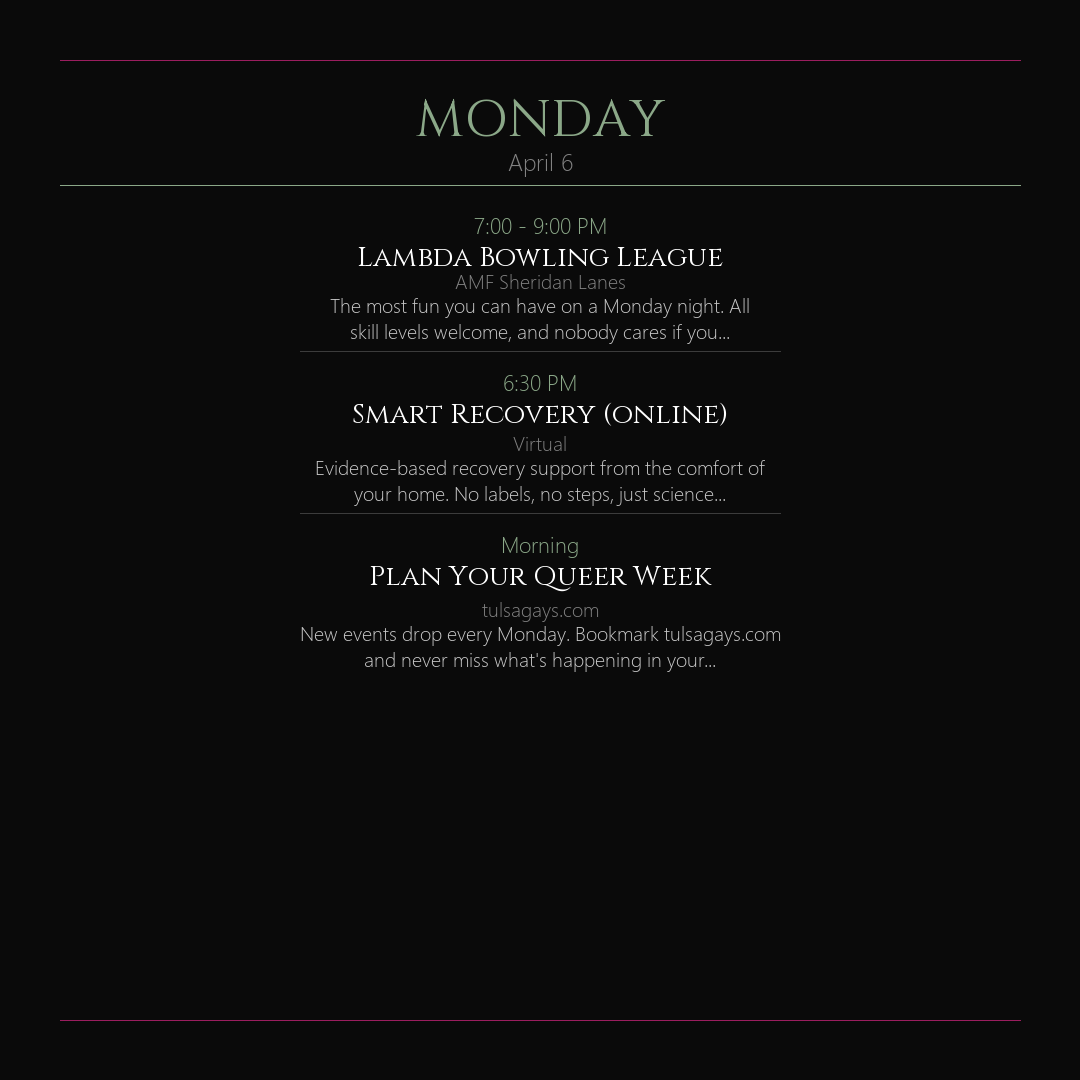
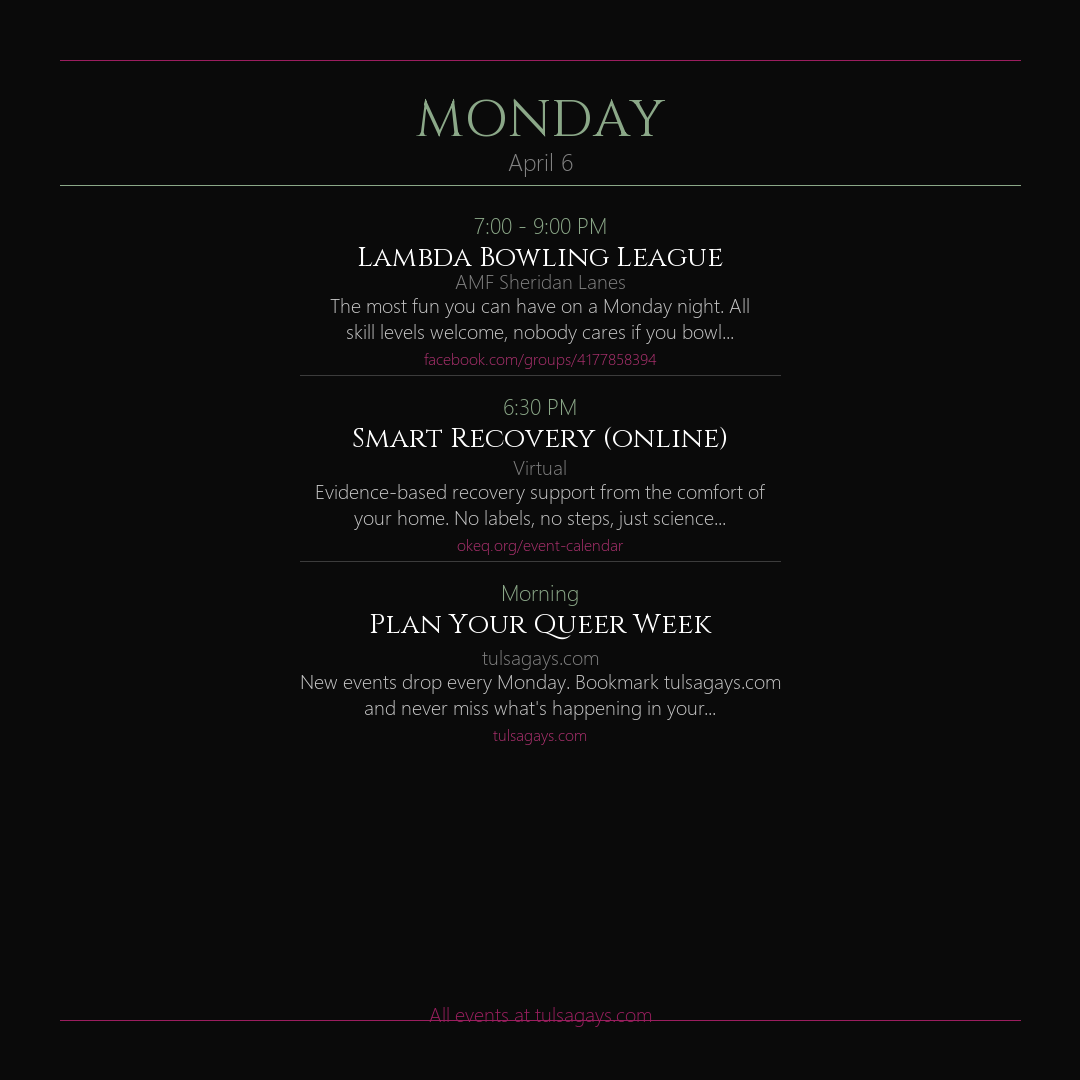
Add event URLs to carousel slides, tulsagays.com footer on every slide
image_maker.py now renders event source URLs under each event in pink,
and shows "All events at tulsagays.com" at the bottom of every daily slide.

diff --git a/content/image_maker.py b/content/image_maker.py
@@ -308,6 +308,14 @@ def make_day_slide(day_name: str, date_str: str, events: List[Dict]) -> Image.Im
                 desc = desc[:97].rsplit(" ", 1)[0] + "..."
             y = _wrapped_centered(draw, desc, y, desc_font, LIGHT, max_width=SIZE[0] - 2 * PAD - 60)
 
+        # Event URL
+        url = ev.get("url", "")
+        if url:
+            url_font = _segoe_light(16)
+            y += 4
+            _centered(draw, url, y, url_font, PINK_LIGHT)
+            y += 20
+
         y += 8
 
         # Divider between events
@@ -318,10 +326,14 @@ def make_day_slide(day_name: str, date_str: str, events: List[Dict]) -> Image.Im
         if y > SIZE[1] - 100:
             break
 
+    # Blog link at bottom of every daily slide
+    blog_font = _segoe_light(20)
+    _centered(draw, "All events at tulsagays.com", SIZE[1] - 80, blog_font, PINK)
+
     if len(events) > MAX_EVENTS:
         more_font = _segoe_light(18)
         note = f"+{len(events) - MAX_EVENTS} more on the blog"
-        _centered(draw, note, SIZE[1] - 80, more_font, MUTED)
+        _centered(draw, note, SIZE[1] - 105, more_font, MUTED)
 
     _line(draw, SIZE[0] - 60)
     return img
